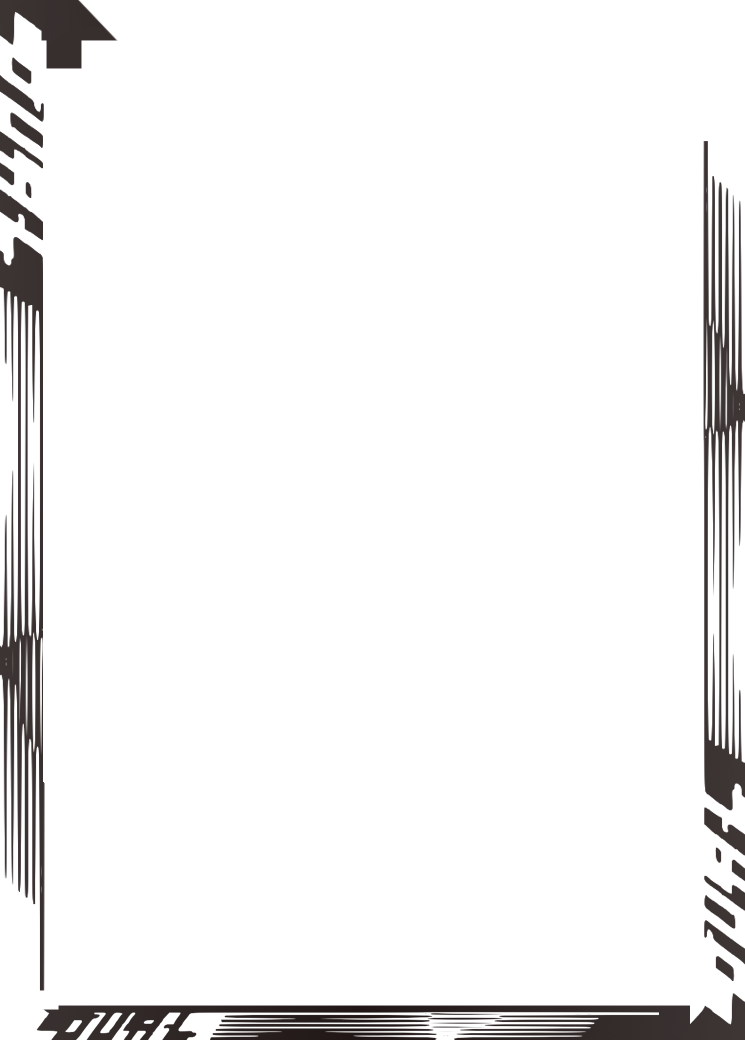
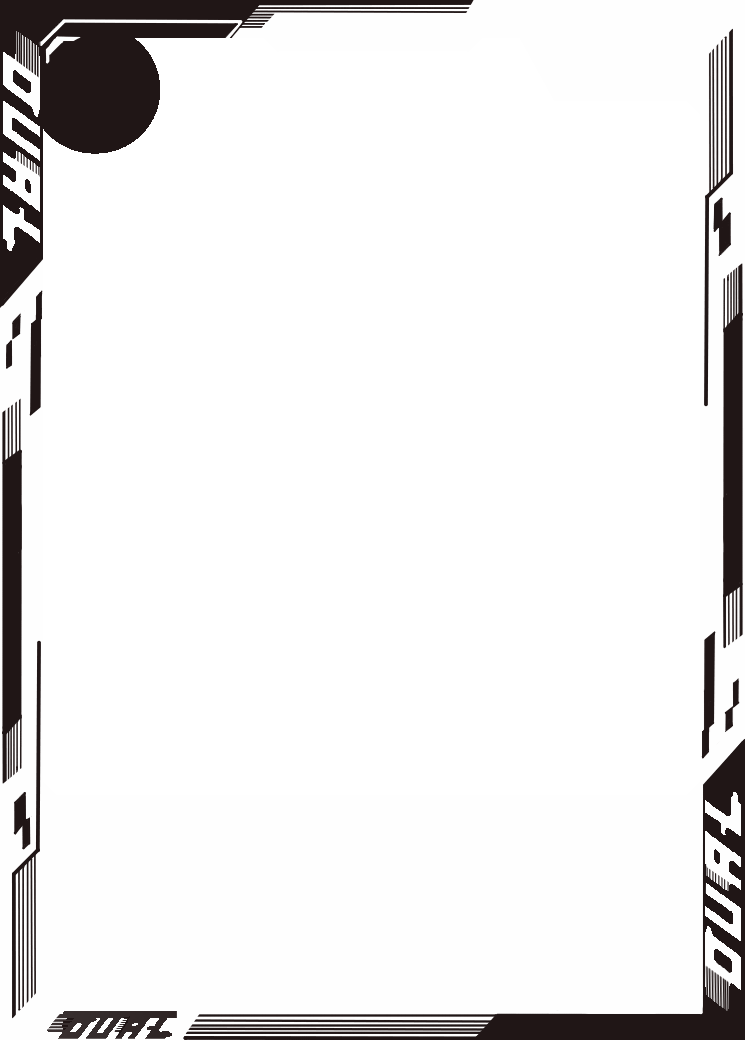
v0.8.53 new DUAL frames courtesy of @rlvvmc

Changed region(s): [[0.0, 0.0, 1.0, 1.0]]

diff --git a/src/CustomCreator.js b/src/CustomCreator.js
@@ -65,9 +65,10 @@ import JSZip from 'jszip';
 import { saveAs } from 'file-saver';
 
 
-const version = "0.8.52"
-const latest = "only use defaults arts evolve text if there's none"
+const version = "0.8.53"
+const latest = "new DUAL frames courtesy of @rlvvmc"
 
+// version 0.8.53   new DUAL frames courtesy of @rlvvmc
 // version 0.8.52   only use defaults arts evolve text if there's none
 // version 0.8.51   naked circle when using playCost of 'blank'
 // version 0.8.50   stop option name overflow; fix font for duel effect; more room for optionCardEffect
@@ -3832,6 +3833,7 @@ function CustomCreator() {
             Version {version} {latest}
             <p style={{ fontFamily: "ToppanBunkyExtraBold" }}>Ask support or request features over on <a href={invite}>Discord</a>.</p>
             <p style={{ fontFamily: "ProhibitionRough" }}><a href="./fontguide.html">FONT GUIDE</a> &nbsp; &nbsp;  <a href="./roadmap.txt">roadmap</a></p>
+            <p style={{ fontFamily: "Helvectica" }}>DUAL frames courtesy of <a href="https://github.com/rlv-ab">@rlvvmc</a></p>
             <p style={{ fontFamily: "Roboto" }}>Some modern templates from <a href="https://www.reddit.com/r/DigimonCardGame2020/comments/14fgi6o/magic_set_editor_custom_card_new_template_bt14/">Weyrus and FuutsuFIX</a> based on work by Eronan.</p>
             <p style={{ fontFamily: "AyarKasone" }}> More templates from <a href="https://digi-lov.tumblr.com/post/748763635923435520/digimon-card-template">Digi-Lov</a></p>
             <p style={{ fontFamily: "FallingSky" }}>Shout out to pinimba, Zaffy, and Digimoncard.io who kept this dream alive in previous years.</p>
